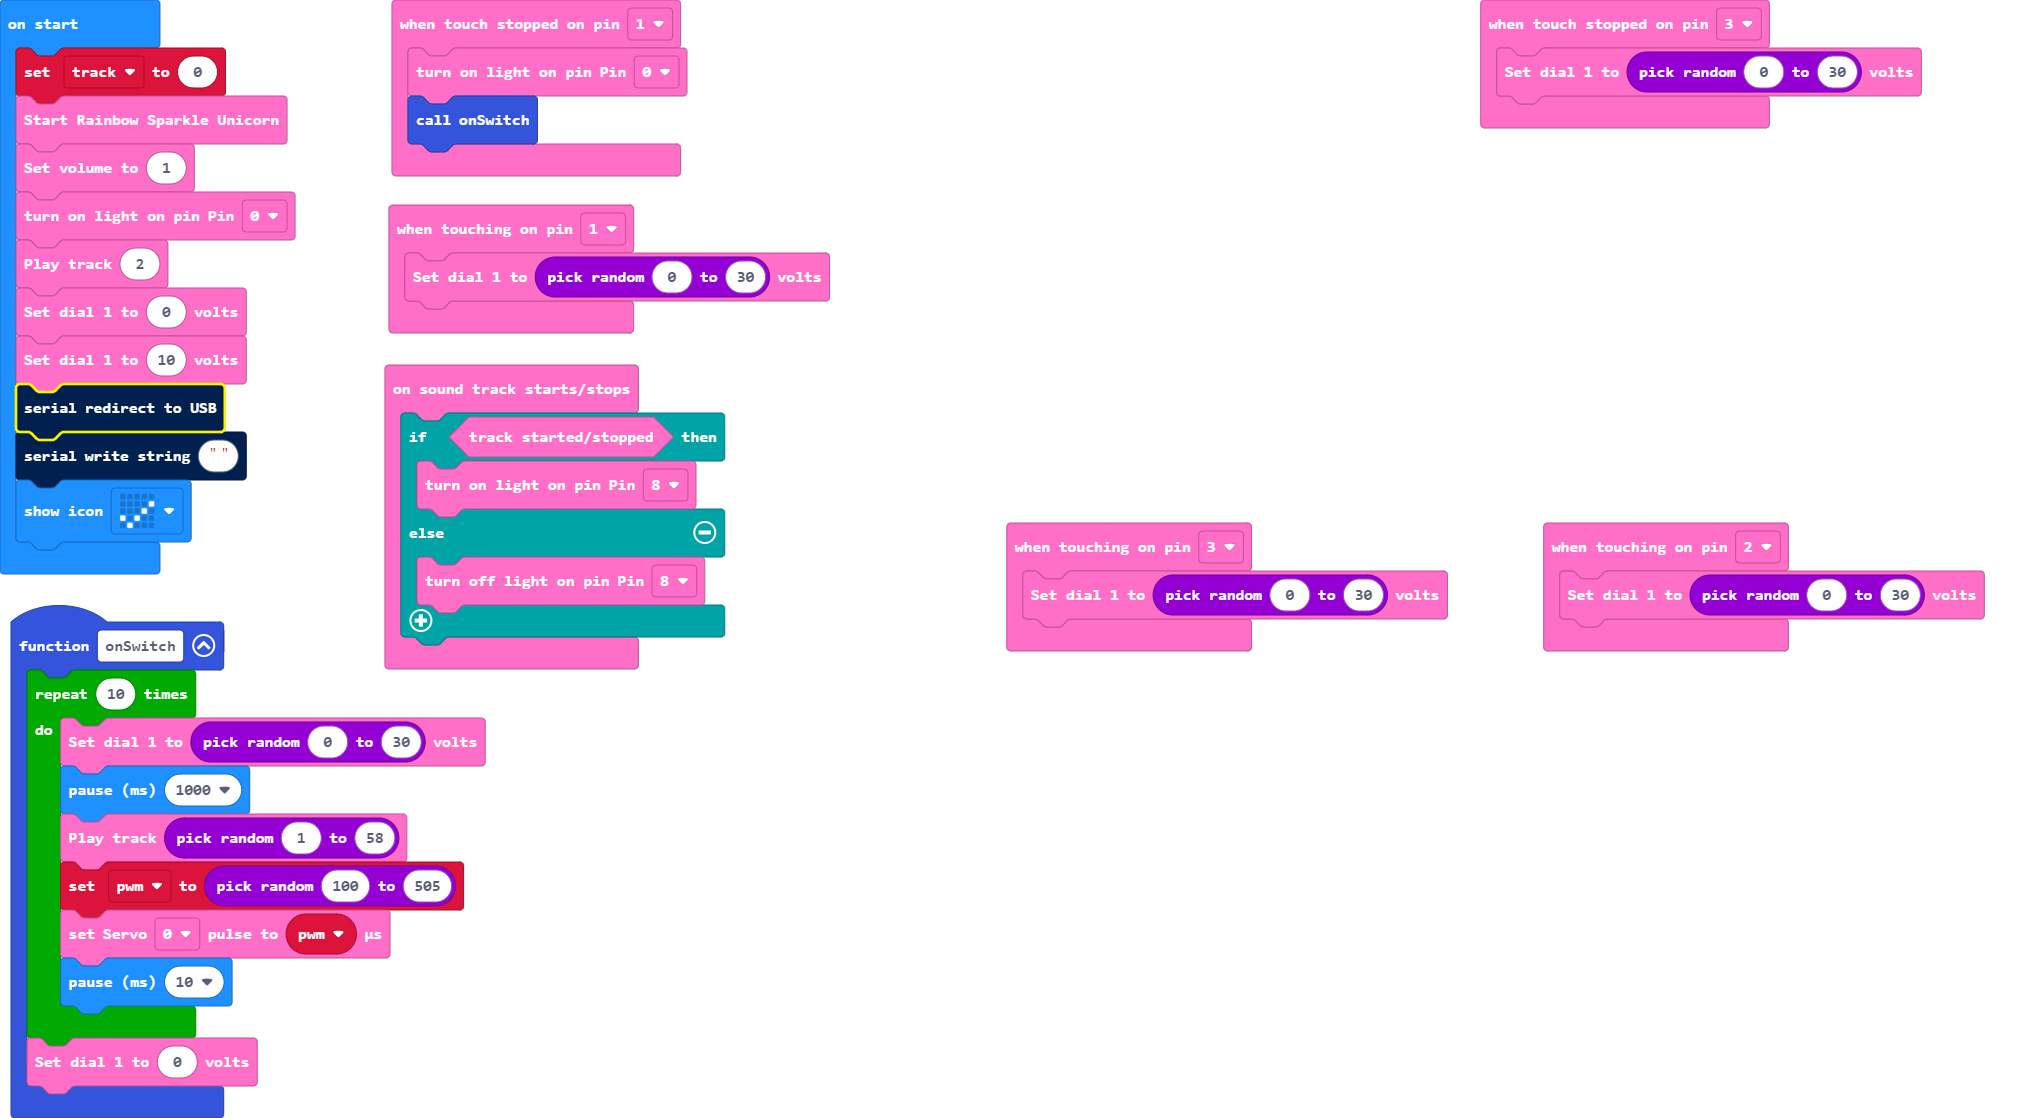
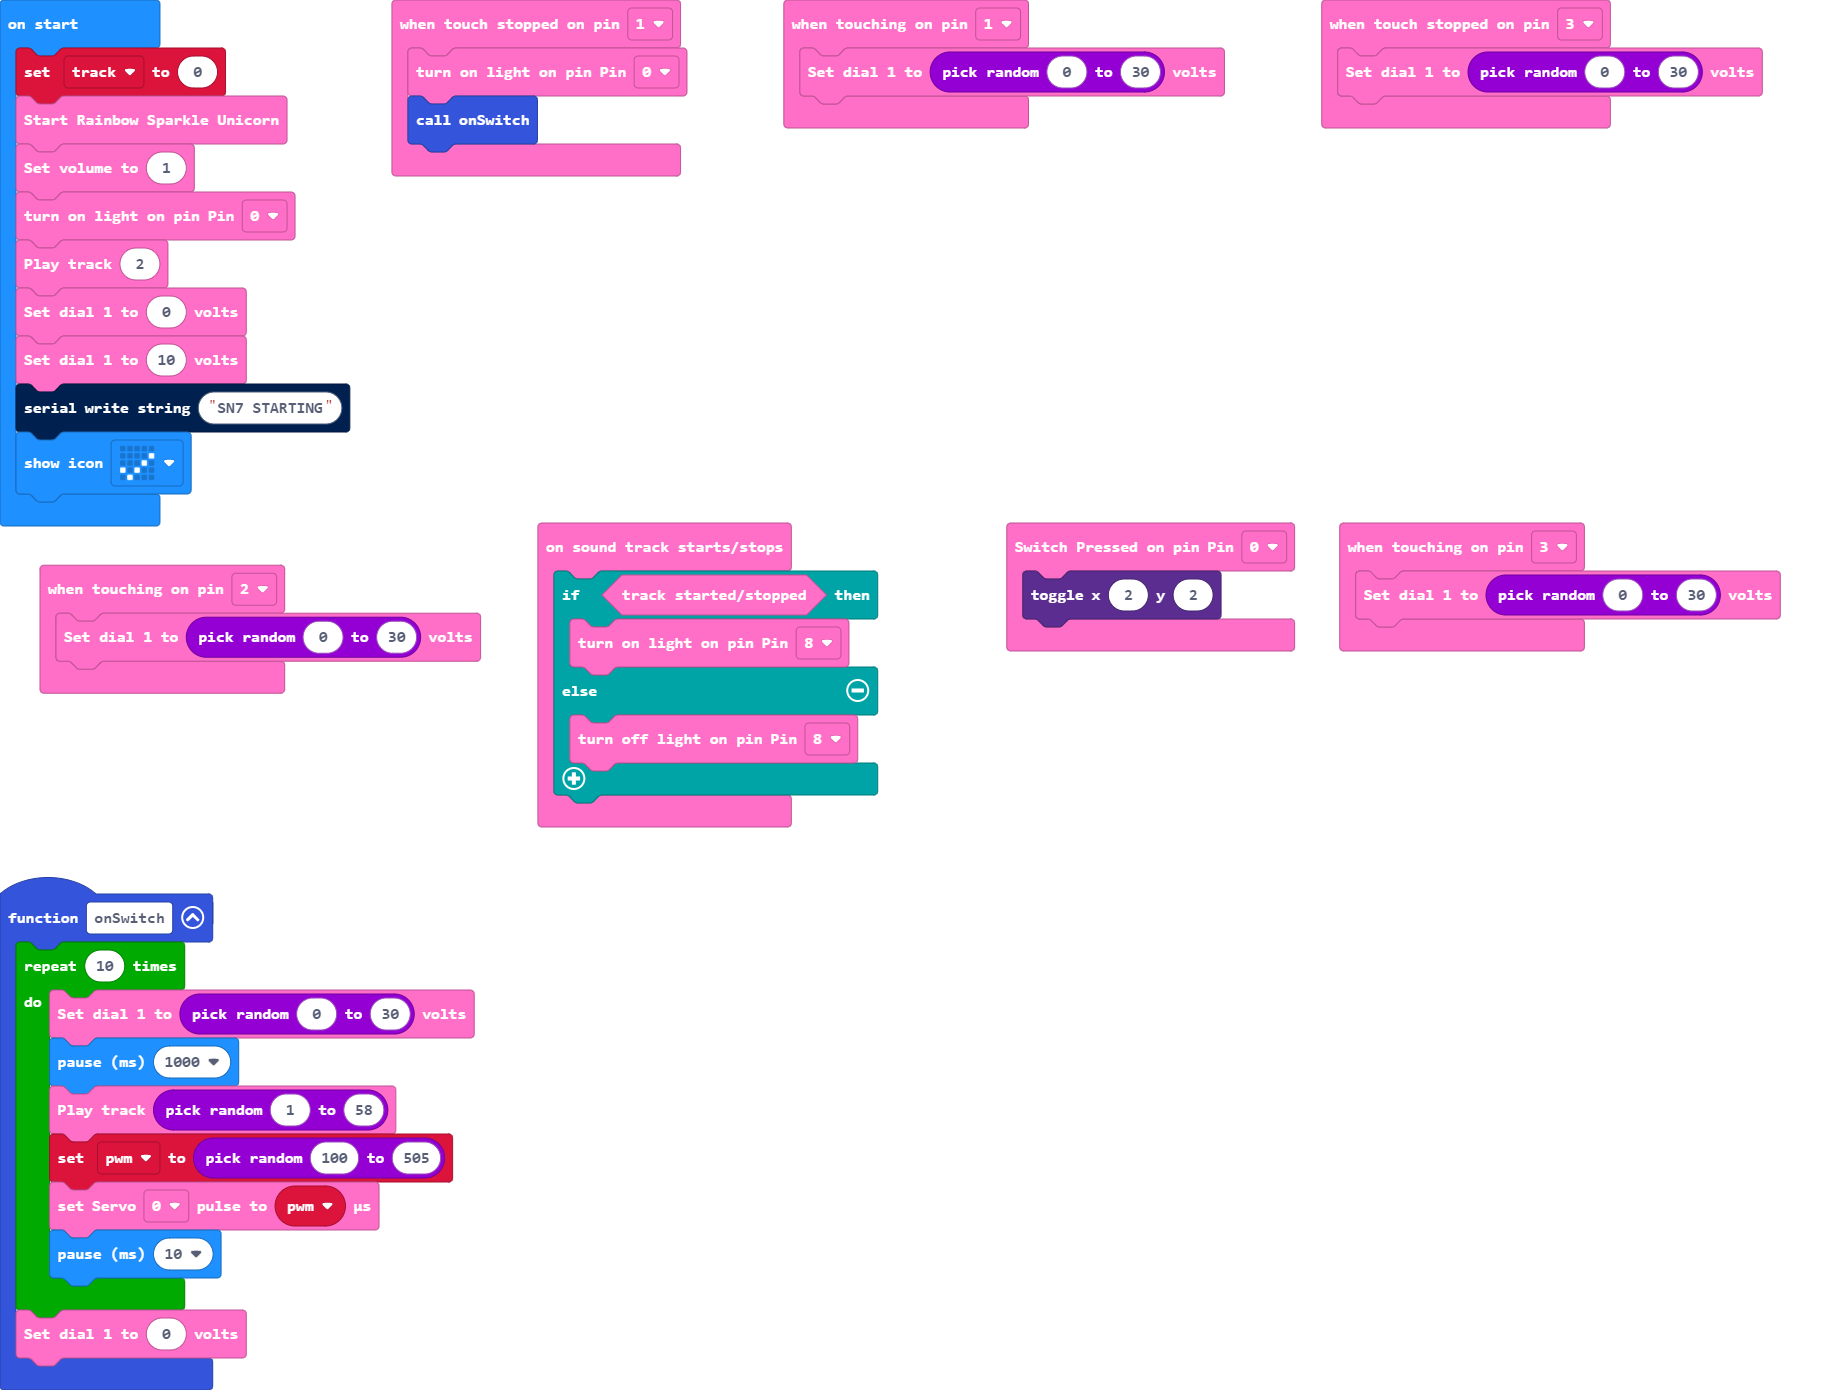
Update pxt.json, main.blocks, main.ts, ns.ts, routing.ts

diff --git a/routing.ts b/routing.ts
@@ -20,30 +20,27 @@ namespace RainbowSparkleUnicorn {
             else if (message.indexOf("B1") == 0) {
                 const pin = parseInt(message.split(",")[1]);
             
-            led.toggle(1,3)
+            //led.toggle(1,3)
 
                 control.raiseEvent(RAINBOW_SPARKLE_UNICORN_TOUCH_SENSOR_TOUCHED, pin)
             }
-
             else if (message.indexOf("B2") == 0) {
                 const pin = parseInt(message.split(",")[1]);
                 
-            led.toggle(1,2)
+            //led.toggle(1,2)
 
                 control.raiseEvent(RAINBOW_SPARKLE_UNICORN_TOUCH_SENSOR_RELEASED, pin)
             }
             else if (message.indexOf("C1") == 0) {
-            const ADC = parseInt(message.split(",")[1]);
+                const ADC = parseInt(message.split(",")[1]);
             
                 control.raiseEvent(RAINBOW_SPARKLE_UNICORN_ADC_ONE, ADC)
             }
-
             else if (message.indexOf("C2") == 0) {
-          const   ADC = parseInt(message.split(",")[1]);
+                const ADC = parseInt(message.split(",")[1]);
 
-            control.raiseEvent(RAINBOW_SPARKLE_UNICORN_ADC_TWO, ADC)
+                control.raiseEvent(RAINBOW_SPARKLE_UNICORN_ADC_TWO, ADC)
             }
-
             else if (message.indexOf("D1") == 0) {
 
                 if (message.split(",")[1] == "+") {
@@ -52,7 +49,6 @@ namespace RainbowSparkleUnicorn {
                     control.raiseEvent(RAINBOW_SPARKLE_UNICORN_ROTARY_ONE_ROTATING, RotaryDirection.Left)
                 }
             }
-
             else if (message.indexOf("D2") == 0) {
 
                 if (message.split(",")[1] == "+") {
@@ -61,15 +57,14 @@ namespace RainbowSparkleUnicorn {
                     control.raiseEvent(RAINBOW_SPARKLE_UNICORN_ROTARY_TWO_ROTATING, RotaryDirection.Left)
                 }
             }
-
             else if (message.indexOf("E") == 0) {
 
                 const state = parseInt(message.split(",")[1]);
                 const pin = parseInt(message.replaceAll("E","").split(",")[0]);
 
-            //    serial.writeValue("state", state);
-            //    serial.writeValue("pin", pin);
-            //      serial.writeLine(message);
+                serial.writeValue("state", state);
+                serial.writeValue("pin", pin);
+                  serial.writeLine(message);
 
                 if (state == 0) {
                     // led.plotBarGraph(pin, 20)
@@ -86,14 +81,12 @@ namespace RainbowSparkleUnicorn {
 
                 control.raiseEvent(RAINBOW_SPARKLE_UNICORN_MOTION_STOPPED,pin);
         } 
-
         else if (message.indexOf("F2") == 0) {
 
                 const pin = parseInt(message[1]);
 
                 control.raiseEvent(RAINBOW_SPARKLE_UNICORN_MOTION_HALTED,pin);
         } 
-
         else if (message.indexOf("G1") == 0) {
                 //store ip address
                 const IP = message.split(",")[1];
@@ -101,7 +94,6 @@ namespace RainbowSparkleUnicorn {
 
                 control.raiseEvent(RAINBOW_SPARKLE_UNICORN_IP_RECEIVED,1);            
         } 
-
         else if (message.indexOf("G2") == 0) {
 
                 const connected = parseInt(message[1]);

diff --git a/main.ts b/main.ts
@@ -2,6 +2,9 @@ RainbowSparkleUnicorn.onButtonReleased(RainbowSparkleUnicorn.TouchSensor.T1, fun
     RainbowSparkleUnicorn.turnOn(Blinkable.Blinkable0)
     onSwitch()
 })
+RainbowSparkleUnicorn.onSwitchPressed(RainbowSparkleUnicorn.switchPins.Switch0, function () {
+    led.toggle(2, 2)
+})
 RainbowSparkleUnicorn.onButtonTouched(RainbowSparkleUnicorn.TouchSensor.T1, function () {
     RainbowSparkleUnicorn.dial1(randint(0, 30))
 })
@@ -40,6 +43,5 @@ RainbowSparkleUnicorn.turnOn(Blinkable.Blinkable0)
 RainbowSparkleUnicorn.playTrack(2)
 RainbowSparkleUnicorn.dial1(0)
 RainbowSparkleUnicorn.dial1(10)
-serial.redirectToUSB()
-serial.writeString("")
+serial.writeString("SN7 STARTING")
 basic.showIcon(IconNames.Yes)

diff --git a/ns.ts b/ns.ts
@@ -11,6 +11,7 @@ namespace RainbowSparkleUnicorn {
 
         pins.digitalWritePin(DigitalPin.P8, 0);
 
+
         initialised = true;
         basic.pause(50);
 
@@ -20,15 +21,10 @@ namespace RainbowSparkleUnicorn {
         RainbowSparkleUnicorn.turnSlider2(OnOff.OFF);
         RainbowSparkleUnicorn.turnSpinner1(OnOff.OFF);
         RainbowSparkleUnicorn.turnSpinner2(OnOff.OFF);
-        
-        //RainbowSparkleUnicorn.setVolume(0);        
-
-        basic.showIcon(IconNames.Giraffe)
-
     }
 
 
-        /**
+    /**
      * Write a comment
      * @param theComment eg:'write comment here'
      */
